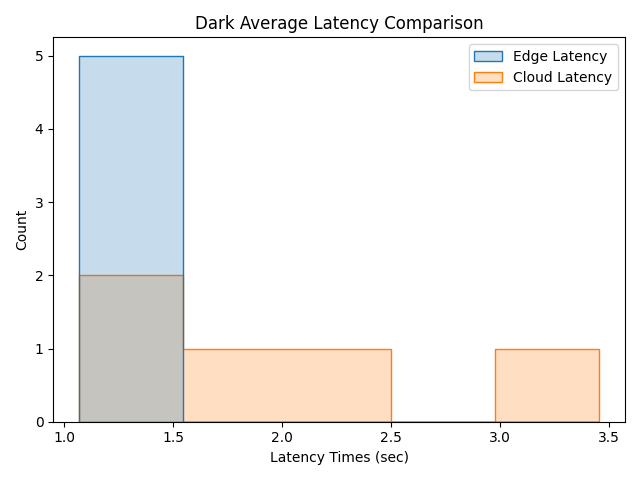
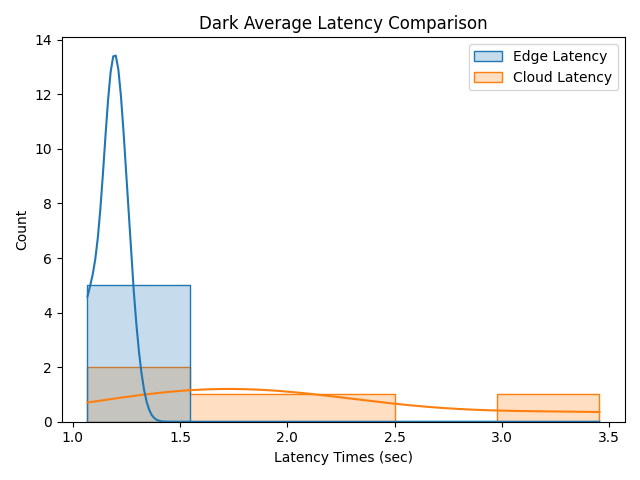
throughput std

Changed region(s): [[0.0625, 0.0938, 0.9375, 0.9688], [0.2812, 0.0312, 0.7812, 0.0625], [0.0625, 0.0625, 0.0938, 0.125]]

diff --git a/throughput_std.py b/throughput_std.py
@@ -1,0 +1,26 @@
+import pandas as pd
+import numpy as np
+import glob
+
+file_model_Mb = {
+    'Default' : 148.00352,
+    'Fish 100k' : 45.472128,
+    'Fish 200k' : 64.0528,
+    'Fish 400k' : 148.00352,
+    'Fish 2k' : 24.807808,
+    'Fish 20k' : 29.271456,
+    'Busy Network' : 0,
+    'Cloud 100k' : 45.472128,
+    'Cloud 200k' : 64.0528,
+    'Cloud 400k' : 148.00352,
+    'Cloud 2k' : 24.807808,
+    'Cloud 20k' : 29.271456,
+    'gltf' : {'light' : 709.804736, 'dark' : 101.5808}
+}
+
+for filename in glob.glob(f'raw_data/*k.csv'):
+    file = filename[filename.index('/') + 1 : filename.index('.')]
+    data = pd.read_csv(filename)
+    data['throughput'] = file_model_Mb[file] / data['light']
+    std = np.std(data['throughput'])
+    print(f'{file} throughput std: {std}')

diff --git a/average_comparison.py b/average_comparison.py
@@ -8,14 +8,14 @@ def comparison_calculations(dataset, title):
     latency = dataset[['Edge Latency', 'Cloud Latency']]
     throughput = dataset[['Edge Throughput', 'Cloud Throughput']]
 
-    ax = sns.histplot(data=latency, element='step')
+    ax = sns.histplot(data=latency, element='step', kde=True)
     graph_title = f'{title} Average Latency Comparison'
     ax.set(xlabel='Latency Times (sec)', title=graph_title)
     plt.tight_layout()
     plt.savefig(f'graphs/{graph_title}_latency.png')
     plt.clf()
 
-    ax = sns.histplot(data=throughput, element='step')
+    ax = sns.histplot(data=throughput, element='step', kde=True)
     graph_title = f'{title} Average Throughput Comparison'
     ax.set(xlabel='Throughput (Mbps)', title=graph_title)
     plt.tight_layout()
